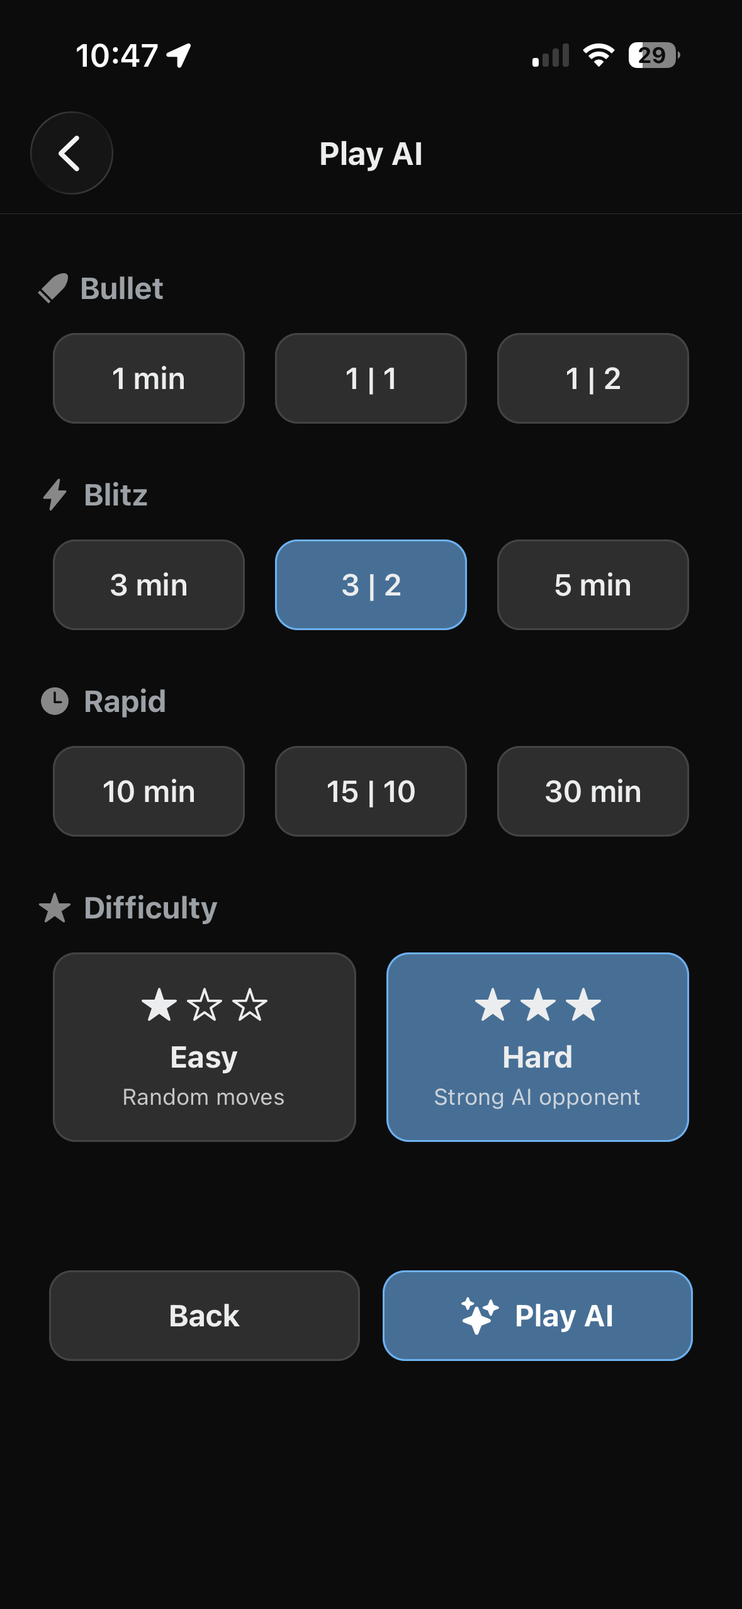
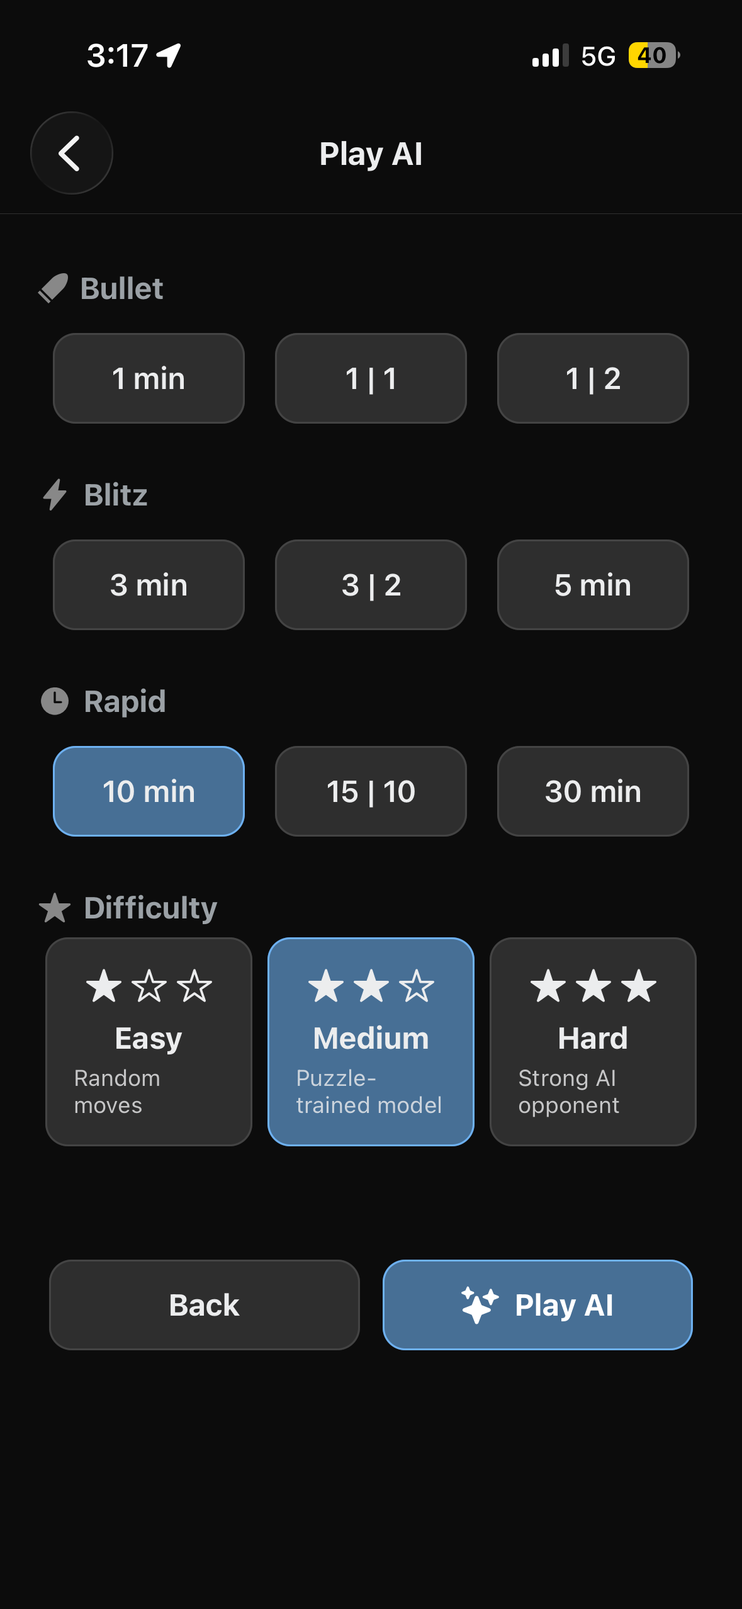
Finished tutorial and added install section

diff --git a/tutorial.html b/tutorial.html
@@ -37,120 +37,56 @@
       </div>
     </section>
 
-    <section>
-      <div class="container">
-        <div class="accordion" role="list">
-
-          <div class="accordion-item open" role="listitem">
-            <button class="accordion-trigger" aria-expanded="true" onclick="toggleAccordion(this)">
-              <span class="step-num">1</span>
-              <span>Install the app</span>
-              <svg class="chevron" viewBox="0 0 20 20" fill="currentColor"><path d="M5.23 7.21a.75.75 0 011.06.02L10 11.168l3.71-3.938a.75.75 0 111.08 1.04l-4.25 4.5a.75.75 0 01-1.08 0l-4.25-4.5a.75.75 0 01.02-1.06z"/></svg>
-            </button>
-            <div class="accordion-body">
-              <div class="accordion-content">
-                Install TestFlight from the App Store, then tap "Install via TestFlight" on the <a href="download.html" style="color: var(--accent); text-decoration: underline;">Download page</a>.
-                Follow the prompts to install Overthrow Chess on your iPhone.
-              </div>
-            </div>
-          </div>
-
-          <div class="accordion-item" role="listitem">
-            <button class="accordion-trigger" aria-expanded="false" onclick="toggleAccordion(this)">
-              <span class="step-num">2</span>
-              <span>Create or sign in to your account</span>
-              <svg class="chevron" viewBox="0 0 20 20" fill="currentColor"><path d="M5.23 7.21a.75.75 0 011.06.02L10 11.168l3.71-3.938a.75.75 0 111.08 1.04l-4.25 4.5a.75.75 0 01-1.08 0l-4.25-4.5a.75.75 0 01.02-1.06z"/></svg>
-            </button>
-            <div class="accordion-body">
-              <div class="accordion-content">
-                Sign up using the in-app authentication flow to access our services. There is support for Sign-in with Apple to speed this process up and protect your privacy.
-              </div>
-            </div>
-          </div>
-
-          <div class="accordion-item" role="listitem">
-            <button class="accordion-trigger" aria-expanded="false" onclick="toggleAccordion(this)">
-              <span class="step-num">3</span>
-              <span>Queue into an online match or AI game</span>
-              <svg class="chevron" viewBox="0 0 20 20" fill="currentColor"><path d="M5.23 7.21a.75.75 0 011.06.02L10 11.168l3.71-3.938a.75.75 0 111.08 1.04l-4.25 4.5a.75.75 0 01-1.08 0l-4.25-4.5a.75.75 0 01.02-1.06z"/></svg>
-            </button>
-            <div class="accordion-body">
-              <div class="accordion-content">
-                From the lobby, choose <strong>Play Online</strong> for matchmaking or <strong>Play AI</strong> for a bot
-                opponent. Time settings are grouped into bullet, blitz, and rapid options. When paired, the board is populated and you are free to make your move.
-              </div>
-            </div>
-          </div>
-
-          <div class="accordion-item" role="listitem">
-            <button class="accordion-trigger" aria-expanded="false" onclick="toggleAccordion(this)">
-              <span class="step-num">4</span>
-              <span>Make friends and challenge them</span>
-              <svg class="chevron" viewBox="0 0 20 20" fill="currentColor"><path d="M5.23 7.21a.75.75 0 011.06.02L10 11.168l3.71-3.938a.75.75 0 111.08 1.04l-4.25 4.5a.75.75 0 01-1.08 0l-4.25-4.5a.75.75 0 01.02-1.06z"/></svg>
-            </button>
-            <div class="accordion-body">
-              <div class="accordion-content">
-                Navigate to the Friends tab to send friend requests. Once accepted, you can challenge them directly instead of using the public matchmaking queue.
-              </div>
-            </div>
-          </div>
-
-          <div class="accordion-item" role="listitem">
-            <button class="accordion-trigger" aria-expanded="false" onclick="toggleAccordion(this)">
-              <span class="step-num">5</span>
-              <span>Finish a match and open post-game analysis</span>
-              <svg class="chevron" viewBox="0 0 20 20" fill="currentColor"><path d="M5.23 7.21a.75.75 0 011.06.02L10 11.168l3.71-3.938a.75.75 0 111.08 1.04l-4.25 4.5a.75.75 0 01-1.08 0l-4.25-4.5a.75.75 0 01.02-1.06z"/></svg>
-            </button>
-            <div class="accordion-body">
-              <div class="accordion-content">
-                Play a full match. After the game ends, the result overlay appears. From here, you can open the review screen to replay moves step-by-step with analysis data provided from our servers.
-              </div>
-            </div>
-          </div>
-
-          <div class="accordion-item" role="listitem">
-            <button class="accordion-trigger" aria-expanded="false" onclick="toggleAccordion(this)">
-              <span class="step-num">6</span>
-              <span>Explore stats and puzzle modes</span>
-              <svg class="chevron" viewBox="0 0 20 20" fill="currentColor"><path d="M5.23 7.21a.75.75 0 011.06.02L10 11.168l3.71-3.938a.75.75 0 111.08 1.04l-4.25 4.5a.75.75 0 01-1.08 0l-4.25-4.5a.75.75 0 01.02-1.06z"/></svg>
-            </button>
-            <div class="accordion-body">
-              <div class="accordion-content">
-                Visit the Stats tab to see all of your recent matches, updated ratings, and mode-specific filters. Check out your status on the leaderboards too! Then try Puzzle Rush for tactics training.
-              </div>
-            </div>
-          </div>
-
-        </div>
-
-<div style="text-align: center; margin-top: 40px;">
-          <a class="btn primary" href="download.html">Go to download page</a>
-        </div>
-      </div>
-    </section>
 
     <section class="tut-deep-dive">
       <div class="container">
-        <div class="section-head">
-          <h2>Feature Walkthrough</h2>
-          <p>A closer look at every screen and feature in Overthrow Chess.</p>
-        </div>
-
         <div class="tut-controls">
           <button class="btn tut-toggle-all" onclick="toggleAllTut(this)">Expand All</button>
         </div>
 
         <div class="tut-accordion" role="list">
 
-          <!-- 1. App Start -->
+          <!-- Install -->
           <div class="tut-accordion-item open" role="listitem">
             <button class="tut-trigger" aria-expanded="true" onclick="toggleTut(this)">
+              <span>Install</span>
+              <svg class="chevron" viewBox="0 0 20 20" fill="currentColor"><path d="M5.23 7.21a.75.75 0 011.06.02L10 11.168l3.71-3.938a.75.75 0 111.08 1.04l-4.25 4.5a.75.75 0 01-1.08 0l-4.25-4.5a.75.75 0 01.02-1.06z"/></svg>
+            </button>
+            <div class="tut-body">
+              <div class="tut-content">
+                <p>Overthrow Chess is available on iOS via TestFlight and on Android as a direct APK download.</p>
+
+                <div class="download-grid" style="margin-top: 20px;">
+                  <article class="dl-card">
+                    <div class="platform-icon">🍎</div>
+                    <h3>iOS via TestFlight</h3>
+                    <p>Install TestFlight first, then use the invite link to add Overthrow Chess.<br />Requires iOS 16.0+.</p>
+                    <a class="btn primary" href="https://apps.apple.com/us/app/testflight/id899247664" target="_blank" rel="noreferrer">Install TestFlight</a>
+                    <div class="meta" style="margin-top: 12px;">Then go to <a href="download.html">Downloads</a> and tap <strong>Install via TestFlight</strong></div>
+                  </article>
+
+                  <article class="dl-card">
+                    <div class="platform-icon">🤖</div>
+                    <h3>Android APK</h3>
+                    <p>Download the APK directly and sideload it. You may need to enable <em>Install unknown apps</em> in Settings first.<br />Requires Android 9.0+.</p>
+                    <a class="btn" href="download.html">Download APK</a>
+                    <div class="meta" style="margin-top: 12px;">A security prompt is expected — you can disable the setting again after install.</div>
+                  </article>
+                </div>
+              </div>
+            </div>
+          </div>
+
+          <!-- 1. App Start -->
+          <div class="tut-accordion-item" role="listitem">
+            <button class="tut-trigger" aria-expanded="false" onclick="toggleTut(this)">
               <span>App Start</span>
               <svg class="chevron" viewBox="0 0 20 20" fill="currentColor"><path d="M5.23 7.21a.75.75 0 011.06.02L10 11.168l3.71-3.938a.75.75 0 111.08 1.04l-4.25 4.5a.75.75 0 01-1.08 0l-4.25-4.5a.75.75 0 01.02-1.06z"/></svg>
             </button>
             <div class="tut-body">
               <div class="tut-content">
                 <p>This is the first page you'll see when you open Overthrow Chess. You can sign in with your email and password, use Sign in with Apple for a quick start on iOS, or create a new account. Signing up just takes a name, email, and password — and you'll be ready to play in seconds.</p>
+                <aside class="tut-note"></aside>
                 <div class="tut-img-row">
                   <img src="assets/tutorial-pics/signin.PNG" alt="Sign in screen" />
                   <img src="assets/tutorial-pics/signup.PNG" alt="Sign up screen" />
@@ -159,6 +95,7 @@
                 <div class="tut-sub">
                   <h4 class="tut-sub-heading">Home Screen</h4>
                   <p>This is your home screen and the portal to the rest of the app. From here you can jump into four main activities: Play Online to match against other players, Play AI to practice against the computer, Puzzles to sharpen your tactics, and Game Modes for alternative ways to play. You can also find customization options. In the middle of the screen, you can change the color of your board, and if you click the top left, you can change your avatar. At the bottom, you'll find a navigation bar for Friends, Stats, and Settings.</p>
+                  <aside class="tut-note"></aside>
                   <div class="tut-img-row">
                     <img src="assets/tutorial-pics/homescreen.PNG" alt="Home screen" />
                   </div>
@@ -178,7 +115,8 @@
 
                 <div class="tut-sub" style="margin-top: 0; padding-top: 0; border-top: none;">
                   <h4 class="tut-sub-heading">Time Controls</h4>
-                  <p>When you tap Play Online, you'll choose your time control. Games are grouped into three speed categories: Bullet (1 min, 1|1, 1|2), Blitz (3 min, 3|2, 5 min), and Rapid (10 min, 15|10, 30 min). A format like '3|2' means 3 minutes on the clock with a 2-second increment added after each move. Pick your speed and hit Play Online to get matched. Your ELO rating (the standard score for global chess rankings) is different for each speed category, and will change automatically depending on the results of your games, and the rating of your opponent.</p>
+                  <p>When you tap Play Online, you'll choose your time control. Games are grouped into three speed categories: Bullet (1 min, 1|1, 1|2), Blitz (3 min, 3|2, 5 min), and Rapid (10 min, 15|10, 30 min).  Pick your speed and hit Play Online to get matched. Your ELO rating is different for each speed category, and will change automatically depending on the results of your games, and the rating of your opponent.</p>
+                  <aside class="tut-note"><ul><li>A format like '3|2' means 3 minutes on the clock with a 2-second increment added after each move.</li> <li><b>ELO rating</b> is the standard score for global chess rankings.</li></ul></aside>
                   <div class="tut-img-row">
                     <img src="assets/tutorial-pics/time-controls.PNG" alt="Time controls selection" />
                   </div>
@@ -187,6 +125,7 @@
                 <div class="tut-sub">
                   <h4 class="tut-sub-heading">In Game</h4>
                   <p>Once matched, you'll see the board with both players' names, ELO ratings, and countdown timers. The status bar at the top shows whose turn it is. Tap a piece to see its legal moves highlighted, then tap on or drag to the destination square to make your move. Your move list is tracked at the bottom of the screen.</p>
+                  <aside class="tut-note"></aside>
                   <div class="tut-img-row">
                     <img src="assets/tutorial-pics/game-start.PNG" alt="Active game board" />
                   </div>
@@ -195,6 +134,7 @@
                 <div class="tut-sub">
                   <h4 class="tut-sub-heading">Game Over</h4>
                   <p>When the game ends, you'll see the result — win, loss, or draw — along with how it ended (checkmate, resignation, forfeit, timeout, etc.). From here you can Analyze Game to review your moves with engine evaluation, Rematch Opponent for a rematch, or head back to the home screen.</p>
+                  <aside class="tut-note"></aside>
                   <div class="tut-img-row">
                     <img src="assets/tutorial-pics/game-end.PNG" alt="Game over screen" />
                   </div>
@@ -202,7 +142,18 @@
 
                 <div class="tut-sub">
                   <h4 class="tut-sub-heading">Game Analysis</h4>
-                  <p>The Game Analysis screen replays your game move by move with a Stockfish engine evaluation. Each move is color-coded: gray dots for book moves (moves at the start of a game that follow common starting patterns), yellow dots for good moves, green dots for great moves, blue dots for the best possible move, yellow dots for mistakes, and red dots for blunders (terrible moves). Tap any move to jump to that position and see the evaluation shift, what the best move was, and other top engine choices. This is one of the best tools you can use to learn and improve from your games.</p>
+                  <p>The Game Analysis screen replays your game move by move with a Stockfish engine evaluation. Each move is color-coded for easy identification. Tap any move to jump to that position and see the evaluation shift, what the best move was, and other top engine choices. This is one of the best tools you can use to learn and improve from your games.</p>
+                  <aside class="tut-note">
+                    <p>
+                      Each move is color-coded:<br>
+                      <span style="color: gray;">&#9679; gray dots</span> for <strong>book moves</strong> (moves at the start of a game that follow common starting patterns)<br>
+                      <span style="color: goldenrod;">&#9679; yellow dots</span> for <strong>good moves</strong><br>
+                      <span style="color: green;">&#9679; green dots</span> for <strong>great moves</strong><br>
+                      <span style="color: blue;">&#9679; blue dots</span> for the <strong>best possible move</strong><br>
+                      <span style="color: orange;">&#9679; orange dots</span> for <strong>mistakes</strong><br>
+                      <span style="color: red;">&#9679; red dots</span> for <strong>blunders</strong> (terrible moves)
+                    </p>
+                  </aside>
                   <div class="tut-img-row">
                     <img src="assets/tutorial-pics/game-analysis.PNG" alt="Game analysis screen" />
                   </div>
@@ -220,7 +171,8 @@
             </button>
             <div class="tut-body">
               <div class="tut-content">
-                <p>Play AI works just like Play Online — you pick a time control and start a game — but your opponent is ChessBot, an AI player with two difficulty levels. It's a great way to practice without the pressure of a live opponent.</p>
+                <p>Play AI works just like Play Online — you pick a time control and start a game — but your opponent is ChessBot, an AI player with three custom difficulty levels. It's a great way to practice without the pressure of a live opponent.</p>
+                <aside class="tut-note"></aside>
                 <div class="tut-img-row">
                   <img src="assets/tutorial-pics/time-controls-ai.PNG" alt="Play AI time controls" />
                 </div>
@@ -237,6 +189,7 @@
             <div class="tut-body">
               <div class="tut-content">
                 <p>The Game Modes section offers alternative ways to play. Play in Person lets you pass the phone back and forth with someone sitting next to you. Chess 960 (also known as Fischer Random) shuffles the starting positions of the back rank pieces for a fresh challenge every game.</p>
+                <aside class="tut-note"></aside>
                 <div class="tut-img-row">
                   <img src="assets/tutorial-pics/game-mode-select.PNG" alt="Game mode selection" />
                 </div>
@@ -253,10 +206,12 @@
             <div class="tut-body">
               <div class="tut-content">
                 <p>Puzzles are a type of popular single player chess game, and Overthrow Chess has over 5 million of them. A chess puzzle puts you in the middle of an ongoing game and challenges you to find the best possible move or chain of moves. There is only one correct solution to a given puzzle.</p>
+                <aside class="tut-note"></aside>
 
                 <div class="tut-sub">
                   <h4 class="tut-sub-heading">Puzzle Menu</h4>
                   <p>The Puzzles section shows your current Puzzle Rating and offers two modes to choose from. Your puzzle rating is separate from your game ELO and adjusts based on how you perform.</p>
+                  <aside class="tut-note"></aside>
                   <div class="tut-img-row">
                     <img src="assets/tutorial-pics/puzzle-mode-select.PNG" alt="Puzzle mode selection" />
                   </div>
@@ -264,7 +219,8 @@
 
                 <div class="tut-sub">
                   <h4 class="tut-sub-heading">Puzzle Rush</h4>
-                  <p>Puzzle Rush throws a stream of tactical puzzles at you at your current puzzle ELO. You start with three lives (hearts) — get a puzzle wrong and you lose one. The timer is there to track how long you've taken for each puzzle. A hint button is available if you get stuck, which when activated, highlights the piece you should move next.</p>
+                  <p>Puzzle Rush throws a stream of tactical puzzles at you at your current puzzle ELO. You start with three lives (hearts) — get a puzzle wrong and you lose one. The timer is there to track how long you've taken for each puzzle.</p>
+                  <aside class="tut-note">A hint button is available if you get stuck, which when activated, highlights the piece you should move next.</aside>
                   <div class="tut-img-row">
                     <img src="assets/tutorial-pics/puzzle-rush.PNG" alt="Puzzle Rush gameplay" />
                   </div>
@@ -273,6 +229,7 @@
                 <div class="tut-sub">
                   <h4 class="tut-sub-heading">Random Puzzle</h4>
                   <p>Random Puzzle gives you a single position at a time in a relaxed setting. The puzzle rating tells you how hard it is. Solve it by finding the best move (or sequence of moves), use the Hint button if you need a nudge, or Skip to move on to a new one.</p>
+                  <aside class="tut-note"></aside>
                   <div class="tut-img-row">
                     <img src="assets/tutorial-pics/puzzle-random.PNG" alt="Random puzzle screen" />
                   </div>
@@ -293,6 +250,7 @@
                 <div class="tut-sub" style="margin-top: 0; padding-top: 0; border-top: none;">
                   <h4 class="tut-sub-heading">Finding Friends</h4>
                   <p>Tap the Friends tab in the bottom navigation bar to search for other players. Your existing friends appear under My Friends, and you can search for new players by name. Tap Add Friend to send a request, and you'll see the status update to Requested until they accept.</p>
+                  <aside class="tut-note"></aside>
                   <div class="tut-img-row">
                     <img src="assets/tutorial-pics/friend-search.PNG" alt="Friend search screen" />
                   </div>
@@ -301,6 +259,7 @@
                 <div class="tut-sub">
                   <h4 class="tut-sub-heading">Challenging a Friend</h4>
                   <p>Once someone is on your friends list, tap Challenge next to their name. You'll then pick a time control — the same Bullet, Blitz, and Rapid options — and hit Send Challenge. A 'Challenge Sent' banner confirms it went through. You can cancel a pending challenge at any time.</p>
+                  <aside class="tut-note"></aside>
                   <div class="tut-img-row">
                     <img src="assets/tutorial-pics/friend-challenge.PNG" alt="Friend challenge screen" />
                     <img src="assets/tutorial-pics/challenge-time.PNG" alt="Challenge time control selection" />
@@ -319,10 +278,26 @@
             </button>
             <div class="tut-body">
               <div class="tut-content">
-                <p>The Stats tab gives you a full picture of your performance. At the top, filter by game type: All, Bullet, Blitz, or Rapid. You'll see your Average Rating and Win-Loss-Draw record, along with a rating history graph that tracks your progress over time. Below that, Completed Matches lists your recent games with the opponent, time control, and rating change for each.</p>
-                <div class="tut-img-row">
-                  <img src="assets/tutorial-pics/stats.PNG" alt="Stats and progress screen" />
+
+                <div class="tut-sub" style="margin-top: 0; padding-top: 0; border-top: none;">
+                  <h4 class="tut-sub-heading">Finding Friends</h4>
+                  <p>The Stats tab gives you a full picture of your performance. At the top, filter by game type: All, Bullet, Blitz, or Rapid. You'll see your Average Rating and Win-Loss-Draw record, along with a rating history graph that tracks your progress over time. Below that, Completed Matches lists your recent games with the opponent, time control, and rating change for each.</p>
+                  <aside class="tut-note"></aside>
+                  <div class="tut-img-row">
+                    <img src="assets/tutorial-pics/stats.PNG" alt="Stats and progress screen" />
+                    <img src="assets/tutorial-pics/stats2.PNG" alt="Stats and progress screen 2" />
+                  </div>
                 </div>
+
+                <div class="tut-sub">
+                  <h4 class="tut-sub-heading">Leaderboards</h4>
+                  <p>From the stats screen, you can access a leaderboard for each time control type. Check the Leaderboards to see how you rank against other players globally.</p>
+                  <aside class="tut-note"></aside>
+                  <div class="tut-img-row">
+                    <img src="assets/tutorial-pics/leaderboard.PNG" alt="Leaderboard screen" />
+                  </div>
+                </div>
+
               </div>
             </div>
           </div>
@@ -339,6 +314,7 @@
                 <div class="tut-sub" style="margin-top: 0; padding-top: 0; border-top: none;">
                   <h4 class="tut-sub-heading">Settings Overview</h4>
                   <p>The Settings tab lets you manage your account and preferences. From here you can access Customization (avatar and board themes), Voice Chat settings, and Sound controls. There's also a Sign Out option under the Danger Zone.</p>
+                  <aside class="tut-note"></aside>
                   <div class="tut-img-row">
                     <img src="assets/tutorial-pics/settings.PNG" alt="Settings screen" />
                   </div>
@@ -347,6 +323,7 @@
                 <div class="tut-sub">
                   <h4 class="tut-sub-heading">Edit Display Name</h4>
                   <p>Tap your Display Name to change what other players see. Type in your new name and hit Save.</p>
+                  <aside class="tut-note"></aside>
                   <div class="tut-img-row">
                     <img src="assets/tutorial-pics/edit-name.PNG" alt="Edit display name screen" />
                   </div>
@@ -355,6 +332,7 @@
                 <div class="tut-sub">
                   <h4 class="tut-sub-heading">Avatar Customization</h4>
                   <p>Under Customization, you can pick an Avatar from any chess piece — white or black, pawn through king. Your avatar appears next to your name on the home screen, in friend lists, and during games.</p>
+                  <aside class="tut-note"></aside>
                   <div class="tut-img-row">
                     <img src="assets/tutorial-pics/avatar-customization.PNG" alt="Avatar customization screen" />
                   </div>
@@ -363,6 +341,7 @@
                 <div class="tut-sub">
                   <h4 class="tut-sub-heading">Board Themes</h4>
                   <p>You can also swap your Board Theme to change the look of every game and puzzle. Choose from themes like Classic, Cherry Blossom, Sunset Orange, Midnight, Arctic Frost, Lavender Mist, and more. The preview updates in real time so you can see exactly how your games will look.</p>
+                  <aside class="tut-note"></aside>
                   <div class="tut-img-row">
                     <img src="assets/tutorial-pics/board-customization.PNG" alt="Board theme selection" />
                     <img src="assets/tutorial-pics/board-customization2.PNG" alt="Board theme preview" />

diff --git a/styles.css b/styles.css
@@ -21,6 +21,9 @@
   --radius: 16px;
   --radius-lg: 24px;
   --maxw: 1100px;
+  --note-color: #fbbf24;               /* amber — change this one value to retheme every note */
+  --note-bg: rgba(251, 191, 36, 0.05);
+  --note-border: rgba(251, 191, 36, 0.30);
   --font-display: "Syne", "Avenir Next", sans-serif;
   --font-body: "Inter Tight", "Avenir Next", system-ui, sans-serif;
 }
@@ -915,6 +918,8 @@ section {
   position: relative;
 }
 
+
+
 .tut-deep-dive::before {
   content: "";
   position: absolute;
@@ -1027,11 +1032,40 @@ section {
 }
 
 .tut-img-row img {
-  max-width: 300px;
+  max-width: 350px;
   width: 100%;
   border-radius: 20px;
   box-shadow: 0 4px 24px rgba(0, 0, 0, 0.4);
   border: 1px solid var(--border);
+}
+
+/* ========================================
+   Tutorial inline notes
+   ======================================== */
+.tut-note {
+  border-left: 2px solid var(--note-border);
+  border-radius: 0 8px 8px 0;
+  background: var(--note-bg);
+  padding: 10px 14px;
+  margin-top: 14px;
+  font-size: 13px;
+  color: rgba(245, 245, 245, 0.6);
+  line-height: 1.65;
+}
+
+.tut-note:empty {
+  display: none;
+}
+
+.tut-note::before {
+  content: "Note";
+  display: block;
+  font-size: 10px;
+  font-weight: 700;
+  letter-spacing: 0.1em;
+  text-transform: uppercase;
+  color: var(--note-color);
+  margin-bottom: 5px;
 }
 
 /* ========================================
